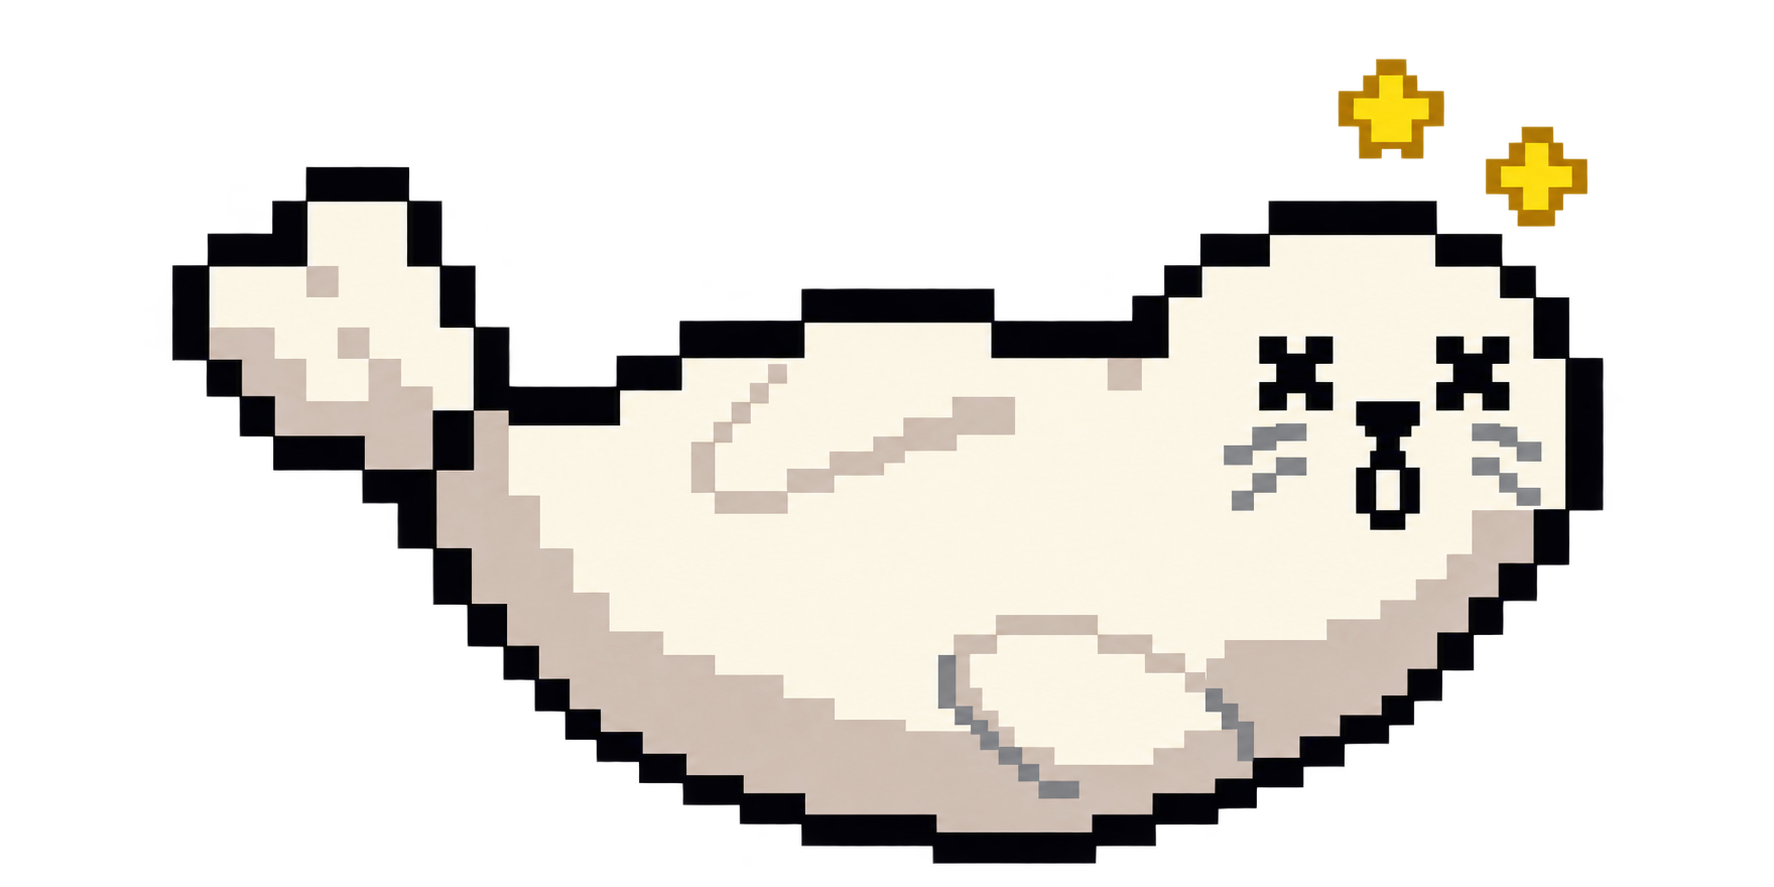
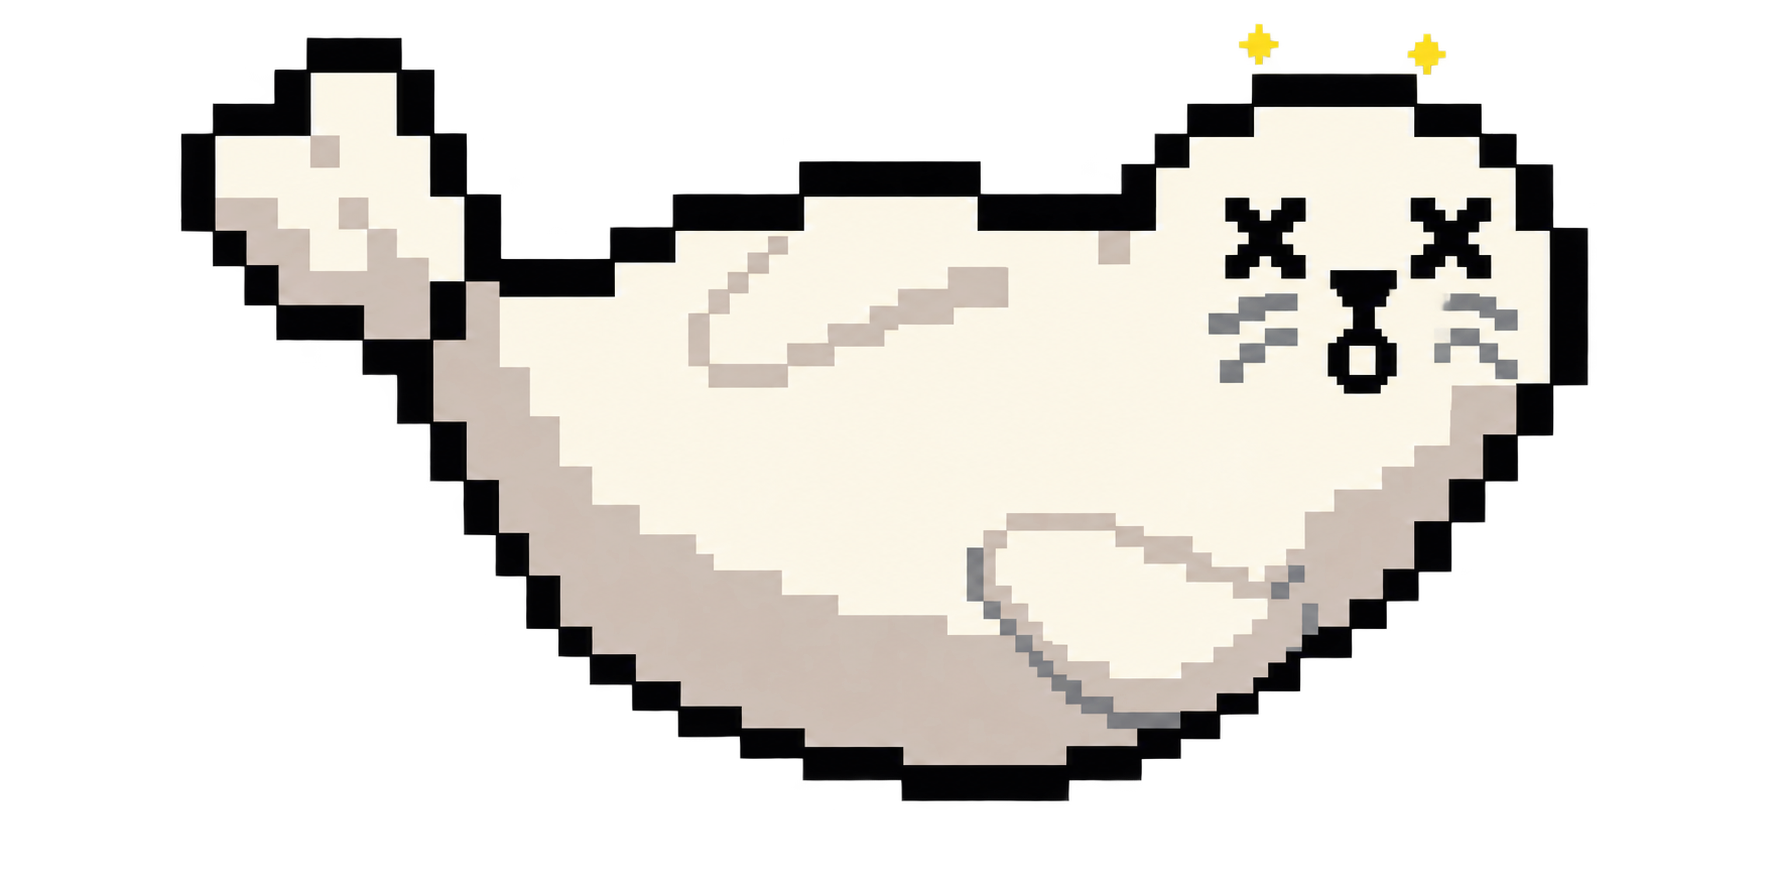
Release FlappySeal v1.1.0

diff --git a/game.js b/game.js
@@ -57,7 +57,7 @@
   let assetFailed = false;
   function assetLoaded(key) {
     loadedAssets.add(key);
-    if (!assetFailed && loadedAssets.size === 4) {
+    if (!assetFailed && loadedAssets.size === 6) {
       startButton.disabled = false;
       startButton.innerHTML = '開始遊戲 <span>→</span>';
     }
@@ -67,16 +67,22 @@
     startButton.disabled = true;
     startButton.textContent = '素材載入失敗，請重新整理';
   }
-  for (const [key, src] of Object.entries({lift:'assets/seal-lift.png?v=thick-1', slap:'assets/seal-slap.png?v=thick-1', hit:'assets/seal-collision.png?v=thick-1'})) {
+  // Head and torso only: tail and protruding flipper tips may brush the ice.
+  function isSealBodyPoint(x,y){
+    const nx=x/sealSize.width,ny=y/sealSize.height;
+    return ((nx-.55)/.28)**2+((ny-.52)/.32)**2<=1
+      || ((nx-.77)/.10)**2+((ny-.31)/.20)**2<=1;
+  }
+  for (const [key, src] of Object.entries({lift:'assets/seal-lift.png?v=thick-1', slap:'assets/seal-slap.png?v=thick-1', hit:'assets/seal-collision.png?v=thick-collision-2'})) {
     assets[key] = new Image();
     assets[key].onload = () => {
       if(key==='hit'){assetLoaded(key);return;}
       const tile=document.createElement('canvas');tile.width=sealSize.width;tile.height=sealSize.height;
       const c=tile.getContext('2d');c.imageSmoothingEnabled=false;c.drawImage(assets[key],0,0,sealSize.width,sealSize.height);
       const rgba=c.getImageData(0,0,sealSize.width,sealSize.height).data, points=[];
-      // Erode one pixel: transparent padding, thin whiskers and outline fringes do not hurt.
+      // Intersect the body regions with the opaque sprite and inset the edge one pixel.
       for(let y=1;y<sealSize.height-1;y++)for(let x=1;x<sealSize.width-1;x++){
-        if([[0,0],[-1,0],[1,0],[0,-1],[0,1]].every(([dx,dy])=>rgba[((y+dy)*sealSize.width+x+dx)*4+3]>200))points.push([x,y]);
+        if(isSealBodyPoint(x,y)&&[[0,0],[-1,0],[1,0],[0,-1],[0,1]].every(([dx,dy])=>rgba[((y+dy)*sealSize.width+x+dx)*4+3]>200))points.push([x,y]);
       }
       sealMasks[key]=points;
       assetLoaded(key);
@@ -88,10 +94,10 @@
   const state = { mode:'ready', y:300, vy:0, score:0, best:0, pipes:[], time:0, flap:0, angle:0, pausedFrom:'play' };
   try { const best = Number(localStorage.getItem('seal-best') || 0); state.best = Number.isSafeInteger(best) && best >= 0 ? best : 0; } catch {} bestEl.textContent = state.best;
   const rand = (a,b) => a + Math.random()*(b-a);
-  function start() { if(assetFailed||loadedAssets.size!==4)return;document.activeElement?.blur();state.mode='play';state.y=300;state.vy=0;state.score=0;state.pipes=[];state.time=0;state.flap=0;state.angle=0;spawn(Math.min(W+70,430));overlay.classList.add('hidden');hud.classList.add('visible');pauseButton.hidden=false;scoreEl.textContent='0'; }
+  function start() { if(assetFailed||loadedAssets.size!==6)return;document.activeElement?.blur();state.mode='play';state.y=300;state.vy=0;state.score=0;state.pipes=[];state.time=0;state.flap=0;state.angle=0;spawn(Math.min(W+70,430));overlay.classList.add('hidden');hud.classList.add('visible');pauseButton.hidden=false;scoreEl.textContent='0'; }
   function spawn(x) { const gap=pipeGap(state.score), mid=rand(235,410);state.pipes.push({x,mid,gap,passed:false}); }
   // Increase density every three points, only when placing the next column.
-  function pipeSpacing(score) { return Math.max(190,266-Math.floor(score/3)*12); }
+  function pipeSpacing(score) { return Math.max(190,320-Math.floor(score/3)*12); }
   function pipeGap(score) { return Math.max(sealSize.height*2,190-Math.floor(score/3)*6); }
   function flap() { if(state.mode==='ready'){start();} if(state.mode==='play'){state.vy=-390;state.flap=.19;state.angle=-12*Math.PI/180;playSlapSound();} }
   function finish() { if(state.mode!=='play')return;state.mode='over';hud.classList.remove('visible');pauseButton.hidden=true;if(state.score>state.best){state.best=state.score;bestEl.textContent=state.best;try{localStorage.setItem('seal-best',state.best)}catch{}}document.querySelector('#headline').textContent='哎呀，撞到冰了！';document.querySelector('#description').classList.add('result');document.querySelector('#description').innerHTML=`這次穿過了 <b>${state.score}</b> 組冰柱`;document.querySelector('#start').innerHTML='再玩一次 <span>↻</span>';overlay.classList.remove('hidden'); }
@@ -141,8 +147,7 @@
     mountain(-15,444,80,501);mountain(67,427,75,501);mountain(158,416,88,501);mountain(268,433,83,501);mountain(365,426,92,501);
     mountain(25,436,71,503);mountain(113,412,84,503);mountain(219,438,76,503);mountain(309,430,72,503);
     scene.restore();}
-    block(scene,0,498,W,7,'#dff7ff');
-    const sea=scene.createLinearGradient(0,503,0,H);sea.addColorStop(0,'#0877ce');sea.addColorStop(.4,'#0061ba');sea.addColorStop(1,'#004ca6');scene.fillStyle=sea;scene.fillRect(0,505,W,H-505);
+    const sea=scene.createLinearGradient(0,498,0,H);sea.addColorStop(0,'#0877ce');sea.addColorStop(.4,'#0061ba');sea.addColorStop(1,'#004ca6');scene.fillStyle=sea;scene.fillRect(0,498,W,H-498);
     for(let i=0;i<215;i++){
       const x=noise(i+10)*W,y=506+noise(i+400)*(H-506),w=4+noise(i+900)*17;
       block(scene,x,y,w,2+noise(i+220)*2,['#0783de','#158feb','#42b9fa','#0057ac'][i%4]);
@@ -150,57 +155,111 @@
     [[24,524,29],[164,516,24],[275,540,37],[82,568,47],[327,608,39],[-8,598,38]].forEach(([x,y,w])=>{
       block(scene,x-4,y+5,w+8,4,'#369cdd');block(scene,x,y,w,5,'#b9e8ff');block(scene,x+w*.16,y-5,w*.65,10,'#e9faff');block(scene,x+w*.34,y-10,w*.3,8,'#fff');block(scene,x+w*.22,y,w*.18,5,'#80caf1');
     });
-    block(scene,0,ground,W,2,'#75cef2');
   }
   buildScenery();
   function background(){ctx.drawImage(scenery,0,0)}
   const iceTextures = new Map();
+  const icePeak = new Image(), icefield = new Image();
+  let peakRegion, groundTile;
+  // Ignore transparent export padding, including nearly transparent fringe pixels.
+  function opaqueRegion(image){
+    const c=document.createElement('canvas');c.width=image.naturalWidth;c.height=image.naturalHeight;
+    const g=c.getContext('2d');g.drawImage(image,0,0);
+    const a=g.getImageData(0,0,c.width,c.height).data;
+    let left=c.width,top=c.height,right=-1,bottom=-1;
+    for(let y=0;y<c.height;y++)for(let x=0;x<c.width;x++)if(a[(y*c.width+x)*4+3]>200){
+      left=Math.min(left,x);right=Math.max(right,x);top=Math.min(top,y);bottom=Math.max(bottom,y);
+    }
+    if(right<left)throw new Error('Empty icefield asset');
+    return {x:left,y:top,w:right-left+1,h:bottom-top+1};
+  }
+  icePeak.onload=()=>{try{peakRegion=opaqueRegion(icePeak);iceTextures.clear();assetLoaded('peak')}catch{assetError()}};
+  icePeak.onerror=assetError;
+  icePeak.src='assets/icefield/snowcap-pillar-white.png?v=1';
+  icefield.onload=()=>{
+    try{
+      const r=opaqueRegion(icefield),tile=document.createElement('canvas');
+      tile.height=H-ground;tile.width=Math.max(1,Math.round(r.w*tile.height/r.h));
+      const c=tile.getContext('2d');c.imageSmoothingEnabled=false;
+      c.drawImage(icefield,r.x,r.y,r.w,r.h,0,0,tile.width,tile.height);
+      groundTile={tile,alpha:c.getImageData(0,0,tile.width,tile.height).data};
+      assetLoaded('ground');
+    }catch{assetError()}
+  };
+  icefield.onerror=assetError;
+  icefield.src='assets/icefield/icefield-base.png?v=1';
+  function groundOffset(){return groundTile?Math.floor(state.time*2.5)%groundTile.tile.width:0}
+  function drawIcefield(){
+    if(!groundTile)return;
+    for(let x=-groundOffset();x<W;x+=groundTile.tile.width)ctx.drawImage(groundTile.tile,x,ground);
+  }
+  function touchesGround(points){
+    if(!groundTile)return false;
+    const {tile,alpha}=groundTile,offset=groundOffset();
+    return points.some(([x,y])=>{
+      if(y>=H)return true;
+      if(y<ground)return false;
+      const tx=((x+offset)%tile.width+tile.width)%tile.width;
+      return alpha[((y-ground)*tile.width+tx)*4+3]>200;
+    });
+  }
   const iceSheet = new Image();
   const startButton = document.querySelector('#start');
   startButton.disabled = true;
   iceSheet.onload = () => { iceTextures.clear();assetLoaded('ice'); };
   iceSheet.onerror = assetError;
   iceSheet.src = 'assets/ice/ice-pillars-reference-v1.png';
-  // Source rectangles refer to the two complete columns in the approved PNG.
+  // Keep the original hanging icicle; lower obstacles use the separate peak sprite.
   // Stretch only the straight shaft; keep the snowy tips at their original aspect ratio.
   const iceRegions = {
-    top: {x:290,y:83,w:289,bodyH:817,capY:900,capH:258},
-    bottom: {x:700,y:163,w:325,bodyY:463,bodyH:600,capH:300}
+    top: {x:290,y:83,w:289,bodyH:817,capY:900,capH:258}
   };
   function iceTexture(h,top){
     const height=Math.max(1,Math.round(h)),key=height+':'+top;
     if(!iceTextures.has(key)){
       const tile=document.createElement('canvas');tile.width=62;tile.height=height;
       const c=tile.getContext('2d');c.imageSmoothingEnabled=false;
-      if(iceSheet.complete&&iceSheet.naturalWidth){
-        const r=iceRegions[top?'top':'bottom'];
+      if(!top&&peakRegion){
+        // Keep the snowcap and foot at a fixed scale; only the long shaft changes height.
+        const r=peakRegion,capSource=Math.round(r.h*.25),footSource=Math.round(r.h*.09);
+        const capHeight=Math.min(height,Math.round(capSource*tile.width/r.w));
+        const footHeight=Math.min(height-capHeight,Math.round(footSource*tile.width/r.w));
+        const shaftHeight=height-capHeight-footHeight;
+        c.drawImage(icePeak,r.x,r.y,r.w,capSource,0,0,tile.width,capHeight);
+        if(shaftHeight>0)c.drawImage(icePeak,r.x,r.y+capSource,r.w,r.h-capSource-footSource,0,capHeight,tile.width,shaftHeight);
+        if(footHeight>0)c.drawImage(icePeak,r.x,r.y+r.h-footSource,r.w,footSource,0,height-footHeight,tile.width,footHeight);
+      }else if(top&&iceSheet.complete&&iceSheet.naturalWidth){
+        const r=iceRegions.top;
         const capHeight=Math.min(height,Math.round(r.capH*62/r.w));
         const bodyHeight=height-capHeight;
-        if(top){
-          if(bodyHeight>0)c.drawImage(iceSheet,r.x,r.y,r.w,r.bodyH,0,0,62,bodyHeight);
-          c.drawImage(iceSheet,r.x,r.capY,r.w,r.capH,0,bodyHeight,62,capHeight);
-        }else{
-          c.drawImage(iceSheet,r.x,r.y,r.w,r.capH,0,0,62,capHeight);
-          if(bodyHeight>0)c.drawImage(iceSheet,r.x,r.bodyY,r.w,r.bodyH,0,capHeight,62,bodyHeight);
-        }
+        if(bodyHeight>0)c.drawImage(iceSheet,r.x,r.y,r.w,r.bodyH,0,0,62,bodyHeight);
+        c.drawImage(iceSheet,r.x,r.capY,r.w,r.capH,0,bodyHeight,62,capHeight);
       }
       if(iceTextures.size >= 64) iceTextures.delete(iceTextures.keys().next().value);
-      iceTextures.set(key,{tile,alpha:c.getImageData(0,0,62,height).data});
+      iceTextures.set(key,{tile,alpha:c.getImageData(0,0,tile.width,height).data});
     }
     return iceTextures.get(key);
   }
-  function ice(x,y,h,top){ctx.drawImage(iceTexture(h,top).tile,Math.round(x),Math.round(y))}
+  function ice(x,y,h,top){
+    const {tile}=iceTexture(h,top);
+    ctx.drawImage(tile,top?Math.round(x):Math.round(x)+31-Math.floor(tile.width/2),Math.round(y));
+  }
+  function obstacleRight(p){
+    const lower=iceTexture(ground+12-(p.mid+p.gap/2),false).tile;
+    return Math.max(Math.round(p.x)+62,Math.round(p.x)+31-Math.floor(lower.width/2)+lower.width);
+  }
   function touchesIce(p,points){
     const radius=Math.hypot(sealSize.width,sealSize.height)/2,centerX=sealSize.x+sealSize.width/2;
-    if(p.x>centerX+radius||p.x+62<centerX-radius)return false;
     const topHeight=p.mid-p.gap/2,bottomY=p.mid+p.gap/2;
-    const upper=iceTexture(topHeight,true),lower=iceTexture(ground-bottomY,false);
+    const upper=iceTexture(topHeight,true),lower=iceTexture(ground+12-bottomY,false);
+    const upperX=Math.round(p.x),lowerX=upperX+31-Math.floor(lower.tile.width/2);
+    if(Math.min(upperX,lowerX)>centerX+radius||Math.max(upperX+62,lowerX+lower.tile.width)<centerX-radius)return false;
     for(const [wx,y] of points){
-      const x=wx-Math.round(p.x);
-      if(x<0||x>=62)continue;
-      if(y>=0&&y<upper.tile.height&&upper.alpha[(y*62+x)*4+3]>200)return true;
+      const x=wx-upperX;
+      if(x>=0&&x<62&&y>=0&&y<upper.tile.height&&upper.alpha[(y*62+x)*4+3]>200)return true;
+      const lx=wx-lowerX;
       const by=y-Math.round(bottomY);
-      if(by>=0&&by<lower.tile.height&&lower.alpha[(by*62+x)*4+3]>200)return true;
+      if(lx>=0&&lx<lower.tile.width&&by>=0&&by<lower.tile.height&&lower.alpha[(by*lower.tile.width+lx)*4+3]>200)return true;
     }
     return false;
   }
@@ -224,7 +283,7 @@
     else{ctx.fillStyle='#fff6e7';ctx.beginPath();ctx.ellipse(0,0,sealSize.width*.39,sealSize.height*.41,0,0,Math.PI*2);ctx.fill()}
     ctx.restore();
   }
-  function render(){background(state.time);for(const p of state.pipes){ice(p.x,0,p.mid-p.gap/2,true);ice(p.x,p.mid+p.gap/2,ground-(p.mid+p.gap/2),false)}seal();if(state.mode==='ready'){ctx.fillStyle='#fff';ctx.font='bold 12px Nunito';ctx.textAlign='center';ctx.fillText('TAP TO SLAP',180,ground-26)}}
+  function render(){background(state.time);for(const p of state.pipes){ice(p.x,0,p.mid-p.gap/2,true);ice(p.x,p.mid+p.gap/2,ground+12-(p.mid+p.gap/2),false)}drawIcefield();seal();}
   window.addEventListener('resize',()=>{
     W=canvas.width=Math.round(H*innerWidth/innerHeight);ctx.imageSmoothingEnabled=false;
     scenery.width=W;buildScenery();
@@ -233,10 +292,10 @@
   let last=null;function loop(now){const dt=last===null?0:Math.max(0,Math.min((now-last)/1000,.035));last=now;if(state.mode==='play')state.flap=Math.max(0,state.flap-dt);if(state.mode==='play'){state.time+=dt*60;state.vy+=1120*dt;state.y+=state.vy*dt;
       const targetAngle=(-12+30*Math.max(0,Math.min(1,(state.vy+200)/500)))*Math.PI/180;
       state.angle+=(targetAngle-state.angle)*(1-Math.exp(-9*dt));
-      for(const p of state.pipes){p.x-=150*dt;if(!p.passed&&p.x+62<sealSize.x){p.passed=true;state.score++;scoreEl.textContent=state.score;}}if(!state.pipes.length)spawn(W+5);while(state.pipes[state.pipes.length-1].x<W+5)spawn(state.pipes[state.pipes.length-1].x+pipeSpacing(state.score));state.pipes=state.pipes.filter(p=>p.x>-70);
+      for(const p of state.pipes){p.x-=150*dt;if(!p.passed&&obstacleRight(p)<sealSize.x){p.passed=true;state.score++;scoreEl.textContent=state.score;}}if(!state.pipes.length)spawn(W+5);while(state.pipes[state.pipes.length-1].x<W+5)spawn(state.pipes[state.pipes.length-1].x+pipeSpacing(state.score));state.pipes=state.pipes.filter(p=>obstacleRight(p)>0);
       const points=sealWorldPoints();
       for(const p of state.pipes){if(touchesIce(p,points)){finish();break}}
-      if(state.mode==='play'&&points.some(([,y])=>y>=ground))finish();
+      if(state.mode==='play'&&touchesGround(points))finish();
       const minY=points.length?Math.min(...points.map(([,y])=>y)):0;
       if(minY<0){state.y-=minY;state.vy=Math.max(0,state.vy)}}render();requestAnimationFrame(loop)}requestAnimationFrame(loop);
 })();

diff --git a/style.css b/style.css
@@ -21,6 +21,7 @@ h1 { font-size:29px;line-height:1.2;margin:8px 0 9px;font-weight:900; }
 .controls { margin-top:14px;color:#6c8496;font-size:12px;font-weight:700; }.controls i { margin:0 6px;color:#e7aa52; }
 .hud { position:absolute;z-index:2;top:15px;left:50%;transform:translateX(-50%);display:none;flex-direction:column;align-items:center;color:#fff;text-shadow:0 2px 0 #123460;font-size:11px;font-weight:900;letter-spacing:.08em;pointer-events:none; }.hud strong {font-size:35px;line-height:1.05}.hud.visible{display:flex}
 .pause-cover { display:none;position:absolute;inset:0;z-index:4;background:#0b2c5060;place-items:center;text-align:center;color:white;font-size:45px;text-shadow:0 3px #123460; }.pause-cover.visible{display:grid}.pause-cover small{font-size:15px;line-height:1.6;font-weight:900}
+.version { position:absolute;right:max(12px,env(safe-area-inset-right));bottom:max(10px,env(safe-area-inset-bottom));z-index:5;padding:4px 7px;border:1px solid #ffffff70;border-radius:8px;background:#102b5575;color:#fff;font-size:10px;font-weight:800;letter-spacing:.04em;line-height:1;pointer-events:none;text-shadow:0 1px 2px #102b55; }
 @media(prefers-reduced-motion:reduce){*,*::before,*::after{transition:none!important}}
 
 .topbar { top:max(13px,env(safe-area-inset-top));right:max(13px,env(safe-area-inset-right)); }

diff --git a/index.html b/index.html
@@ -7,7 +7,7 @@
   <meta name="referrer" content="no-referrer" />
   <meta http-equiv="Content-Security-Policy" content="default-src 'self'; script-src 'self'; style-src 'self'; img-src 'self'; connect-src 'none'; object-src 'none'; base-uri 'none'; form-action 'none'" />
   <title>FlappySeal</title>
-  <link rel="stylesheet" href="style.css?v=ui-4" />
+  <link rel="stylesheet" href="style.css?v=version-1-1-0" />
 </head>
 <body>
   <main class="shell">
@@ -26,8 +26,9 @@
       </div>
       <div class="hud" id="hud"><span>通過</span><strong id="score">0</strong><span>組</span></div>
       <div class="pause-cover" id="pauseCover"><div>⏸<br><small>已暫停<br>點一下繼續</small></div></div>
+      <div class="version" aria-label="版本 v1.1.0">v1.1.0</div>
     </section>
   </main>
-  <script src="game.js?v=seal-thick-1"></script>
+  <script src="game.js?v=white-pillar-1"></script>
 </body>
 </html>

diff --git a/CHANGELOG.md b/CHANGELOG.md
@@ -1,0 +1,9 @@
+# 更新紀錄
+
+## v1.1.0 — 2026-11-02
+
+- 新增冰原地面與白色冰峰凸起，冰峰粗細調整為與上方冰柱一致。
+- 移除天空與海面交界處的白色橫線。
+- 碰撞判定改以海豹頭部與身體為主；尾巴與鰭肢擦過冰柱不會觸發碰撞。
+- 加大預設冰柱間距，並讓冰原地面與障礙物同步移動。
+- 在遊戲畫面右下角加入版本號。
